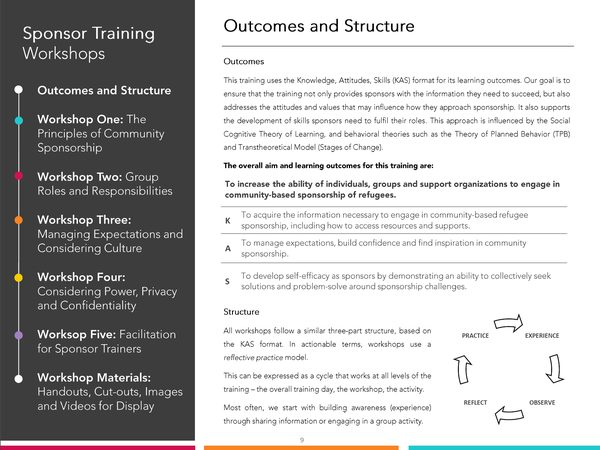
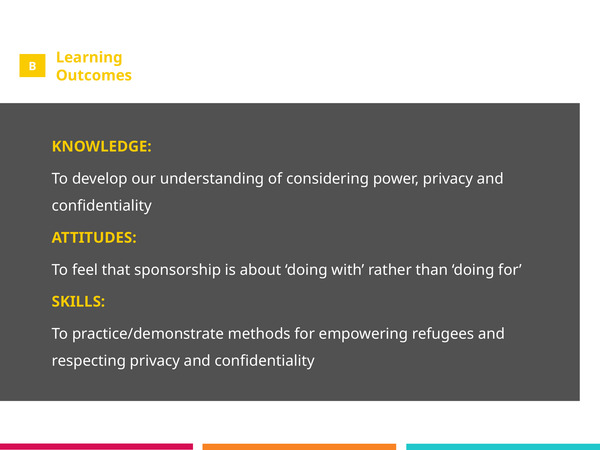
Finalize sponsor-workshop evidence and QA captures

diff --git a/work/refugee-sponsorship.html b/work/refugee-sponsorship.html
@@ -37,7 +37,7 @@
             <div class="flipbook__stage"><div class="flipbook__track">
               <figure class="flipbook__slide"><a href="/assets/images/refugee/evidence/refugee-online-learning-overview.png"><img src="/assets/images/refugee/evidence/refugee-online-pathway-framed.png" width="1800" height="1350" loading="lazy" decoding="async" alt="Online course overview arranging sponsorship learning into four connected stages with progress and topic cards."></a><figcaption class="artifact-caption"><span class="artifact-label">Course pathway</span><strong>Four visible stages</strong><span>The overview organized complex sponsorship preparation into four stages so learners could understand progression, locate guidance and connect topics across the course.</span><a class="artifact-fullsize" href="/assets/images/refugee/evidence/refugee-online-learning-overview.png">View full-size artefact — authentic online pathway →</a></figcaption></figure>
               <figure class="flipbook__slide"><a href="/assets/images/refugee/evidence/refugee-education-scenario.png"><img src="/assets/images/refugee/evidence/refugee-education-scenario-framed.png" width="1800" height="1350" loading="lazy" decoding="async" alt="Family education scenario with contextual information and questions for a sponsor group."></a><figcaption class="artifact-caption"><span class="artifact-label">Scenario application</span><strong>Education decisions in context</strong><span>The scenario asked sponsor groups to apply principles to a realistic family situation, compare possible actions and consider their practical consequences.</span><a class="artifact-fullsize" href="/assets/images/refugee/evidence/refugee-education-scenario.png">View full-size artefact — authentic education scenario →</a></figcaption></figure>
-              <figure class="flipbook__slide"><a href="/assets/images/refugee/evidence/refugee-confidentiality-check.png"><img src="/assets/images/refugee/evidence/refugee-confidentiality-check-framed.png" width="1800" height="1350" loading="lazy" decoding="async" alt="Privacy question asking whether personal information can be shared outside a sponsorship group."></a><figcaption class="artifact-caption"><span class="artifact-label">Policy-to-practice check</span><strong>Immediate privacy judgement</strong><span>The knowledge check converted confidentiality guidance into an immediate learner decision, followed by feedback connecting policy with sponsor-group practice.</span><a class="artifact-fullsize" href="/assets/images/refugee/evidence/refugee-confidentiality-check.png">View full-size artefact — authentic confidentiality check →</a></figcaption></figure>
+              <figure class="flipbook__slide"><a href="/assets/images/refugee/evidence/refugee-confidentiality-check.png"><img src="/assets/images/refugee/evidence/refugee-confidentiality-check-framed.png" width="1800" height="1350" loading="lazy" decoding="async" alt="Multiple-choice knowledge check asking which sponsorship situations require special attention to privacy and confidentiality."></a><figcaption class="artifact-caption"><span class="artifact-label">Policy-to-practice check</span><strong>Immediate privacy judgement</strong><span>The knowledge check converted confidentiality guidance into an immediate learner decision, followed by feedback connecting policy with sponsor-group practice.</span><a class="artifact-fullsize" href="/assets/images/refugee/evidence/refugee-confidentiality-check.png">View full-size artefact — authentic confidentiality check →</a></figcaption></figure>
             </div></div>
             <div class="flipbook__controls"><button class="flipbook__button" type="button" data-flipbook-previous aria-label="Previous slide in online sponsorship preparation">← Previous</button><span class="flipbook__status" data-flipbook-status aria-live="polite">1 of 3</span><button class="flipbook__button" type="button" data-flipbook-next aria-label="Next slide in online sponsorship preparation">Next →</button></div>
           </div>
@@ -50,9 +50,9 @@
           <div class="flipbook" data-flipbook tabindex="0" role="region" aria-label="Participatory sponsor workshops flipbook">
             <p class="flipbook__hint">Swipe or scroll without JavaScript. Use Previous, Next or the arrow keys.</p>
             <div class="flipbook__stage"><div class="flipbook__track">
-              <figure class="flipbook__slide"><a href="/assets/images/refugee/evidence/refugee-workshop-structure.png"><img src="/assets/images/refugee/evidence/refugee-workshop-structure.png" width="2053" height="1540" loading="lazy" decoding="async" alt="Authentic sponsor-training outcomes page aligning knowledge, attitude and skill outcomes with workshop structure and reflective practice."></a><figcaption class="artifact-caption"><span class="artifact-label">Outcomes and structure</span><strong>Knowledge, attitude and skill alignment</strong><span>Knowledge, attitude and skill outcomes connected sponsorship information with confidence, collective problem-solving, privacy, power and preparation for practical workshop application.</span><a class="artifact-fullsize" href="/assets/images/refugee/evidence/refugee-workshop-structure.png">View full-size artefact — outcomes and structure →</a></figcaption></figure>
-              <figure class="flipbook__slide"><a href="/assets/images/refugee/evidence/refugee-participatory-facilitation-guidance.png"><img src="/assets/images/refugee/evidence/refugee-participatory-facilitation-guidance.png" width="1015" height="595" loading="lazy" decoding="async" alt="Authentic sponsor-trainer guidance explaining participatory and experiential facilitation through clear instruction, equal participation and open reflection."></a><figcaption class="artifact-caption"><span class="artifact-label">Sponsor-trainer guidance</span><strong>Facilitated interpretation</strong><span>Facilitator guidance translated participatory and experiential principles into clear instruction, equal participation and open reflection for a new professional domain.</span><a class="artifact-fullsize" href="/assets/images/refugee/evidence/refugee-participatory-facilitation-guidance.png">View full-size artefact — facilitation guidance →</a></figcaption></figure>
-              <figure class="flipbook__slide"><a href="/assets/images/refugee/evidence/refugee-reflective-practice-cycle.png"><img src="/assets/images/refugee/evidence/refugee-reflective-practice-cycle.png" width="795" height="610" loading="lazy" decoding="async" alt="Authentic reflective-practice cycle connecting practice, experience, observation and reflection."></a><figcaption class="artifact-caption"><span class="artifact-label">Reflective practice</span><strong>Experience into independent action</strong><span>The cycle organized experience, observation, reflection and practice so sponsor groups could interpret guidance, test strategies and strengthen independent problem-solving.</span><a class="artifact-fullsize" href="/assets/images/refugee/evidence/refugee-reflective-practice-cycle.png">View full-size artefact — reflective-practice cycle →</a></figcaption></figure>
+              <figure class="flipbook__slide"><a href="/assets/images/refugee/evidence/refugee-workshop-outcomes-doing-with.png"><img src="/assets/images/refugee/evidence/refugee-workshop-outcomes-doing-with.png" width="2000" height="1500" loading="lazy" decoding="async" alt="Learning outcomes for considering power, privacy and confidentiality, including doing with rather than doing for and practising methods for empowerment."></a><figcaption class="artifact-caption"><span class="artifact-label">Learning outcomes</span><strong>Doing with, not doing for</strong><span>Knowledge, attitude and skill outcomes linked power and privacy with an empowering, collaborative approach to real community-sponsorship practice.</span><a class="artifact-fullsize" href="/assets/images/refugee/evidence/refugee-workshop-outcomes-doing-with.png">View full-size artefact — authentic learning-outcomes slide →</a></figcaption></figure>
+              <figure class="flipbook__slide"><a href="/assets/images/refugee/evidence/refugee-workshop-training-principles.png"><img src="/assets/images/refugee/evidence/refugee-workshop-training-principles.png" width="2000" height="1500" loading="lazy" decoding="async" alt="Training principles describing common ground, informed choices, participatory reflection, independent problem-solving and connections to services and sponsorship networks."></a><figcaption class="artifact-caption"><span class="artifact-label">Training principles</span><strong>Guidance without prescription</strong><span>The approach combined informed choice, participatory reflection, independent problem-solving and connections to services rather than a mandated step-by-step process.</span><a class="artifact-fullsize" href="/assets/images/refugee/evidence/refugee-workshop-training-principles.png">View full-size artefact — authentic training-principles slide →</a></figcaption></figure>
+              <figure class="flipbook__slide"><a href="/assets/images/refugee/evidence/refugee-workshop-reflective-practice.png"><img src="/assets/images/refugee/evidence/refugee-workshop-reflective-practice.png" width="2000" height="1500" loading="lazy" decoding="async" alt="Authentic sponsor-training slide showing a reflective-practice cycle connecting practice, experience, observation and reflection."></a><figcaption class="artifact-caption"><span class="artifact-label">Reflective practice</span><strong>Experience into independent action</strong><span>The cycle organized experience, observation, reflection and practice so sponsor groups could interpret guidance, test strategies and strengthen independent problem-solving.</span><a class="artifact-fullsize" href="/assets/images/refugee/evidence/refugee-workshop-reflective-practice.png">View full-size artefact — authentic reflective-practice slide →</a></figcaption></figure>
             </div></div>
             <div class="flipbook__controls"><button class="flipbook__button" type="button" data-flipbook-previous aria-label="Previous slide in participatory sponsor workshops">← Previous</button><span class="flipbook__status" data-flipbook-status aria-live="polite">1 of 3</span><button class="flipbook__button" type="button" data-flipbook-next aria-label="Next slide in participatory sponsor workshops">Next →</button></div>
           </div>

diff --git a/index.html b/index.html
@@ -91,7 +91,7 @@
               <div class="mini-collage">
                 <div class="mini-collage__lead"><img src="/assets/images/home/refugee-online-pathway.jpg" width="900" height="949" loading="lazy" decoding="async" alt="Online sponsorship learning pathway organized into four stages."><span class="mini-collage__label">Online pathway</span></div>
                 <div><img src="/assets/images/home/refugee-scenario-practice.jpg" width="600" height="455" loading="lazy" decoding="async" alt="Education scenario prompting sponsor-group decisions."><span class="mini-collage__label">Scenario practice</span></div>
-                <div><img src="/assets/images/home/refugee-workshop-design.jpg" width="600" height="450" loading="lazy" decoding="async" alt="Workshop overview connecting outcomes, activities and facilitation."><span class="mini-collage__label">Workshop design</span></div>
+                <div><img src="/assets/images/home/refugee-workshop-design.jpg" width="600" height="450" loading="lazy" decoding="async" alt="Learning outcomes connecting knowledge, attitudes and skills with power, privacy, confidentiality and empowerment."><span class="mini-collage__label">Workshop design</span></div>
               </div>
             </figure>
             <div class="project-card__body"><p class="eyebrow">Refugee Hub / Global Refugee Sponsorship Initiative</p><h3>Instructional Designer</h3><p>A six-month engagement connecting online preparation with workshops, scenarios and facilitator resources.</p><a class="text-link" href="/work/refugee-sponsorship.html">Explore the role and work examples <span aria-hidden="true">→</span></a></div>

diff --git a/scripts/check_site.py b/scripts/check_site.py
@@ -67,9 +67,9 @@ REQUIRED_EVIDENCE = [
     Path("assets/images/refugee/evidence/refugee-education-scenario-framed.png"),
     Path("assets/images/refugee/evidence/refugee-confidentiality-check.png"),
     Path("assets/images/refugee/evidence/refugee-confidentiality-check-framed.png"),
-    Path("assets/images/refugee/evidence/refugee-workshop-structure.png"),
-    Path("assets/images/refugee/evidence/refugee-participatory-facilitation-guidance.png"),
-    Path("assets/images/refugee/evidence/refugee-reflective-practice-cycle.png"),
+    Path("assets/images/refugee/evidence/refugee-workshop-outcomes-doing-with.png"),
+    Path("assets/images/refugee/evidence/refugee-workshop-training-principles.png"),
+    Path("assets/images/refugee/evidence/refugee-workshop-reflective-practice.png"),
 ]
 PRIVATE_DIRS = {"private", "working", "source-materials", "raw-assets"}
 FORBIDDEN_VISIBLE = ("TODO", "FIXME", "LOREM IPSUM", "PLACEHOLDER")
